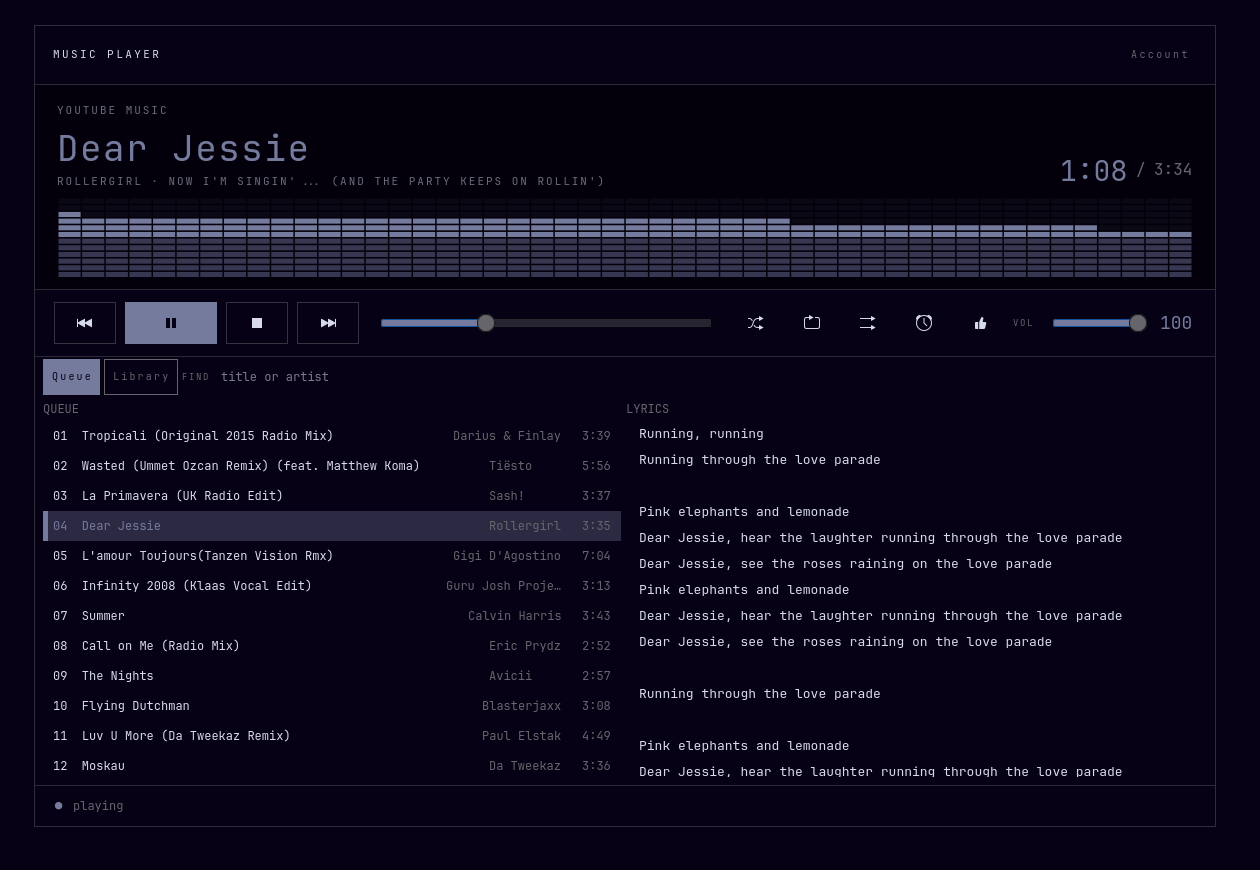
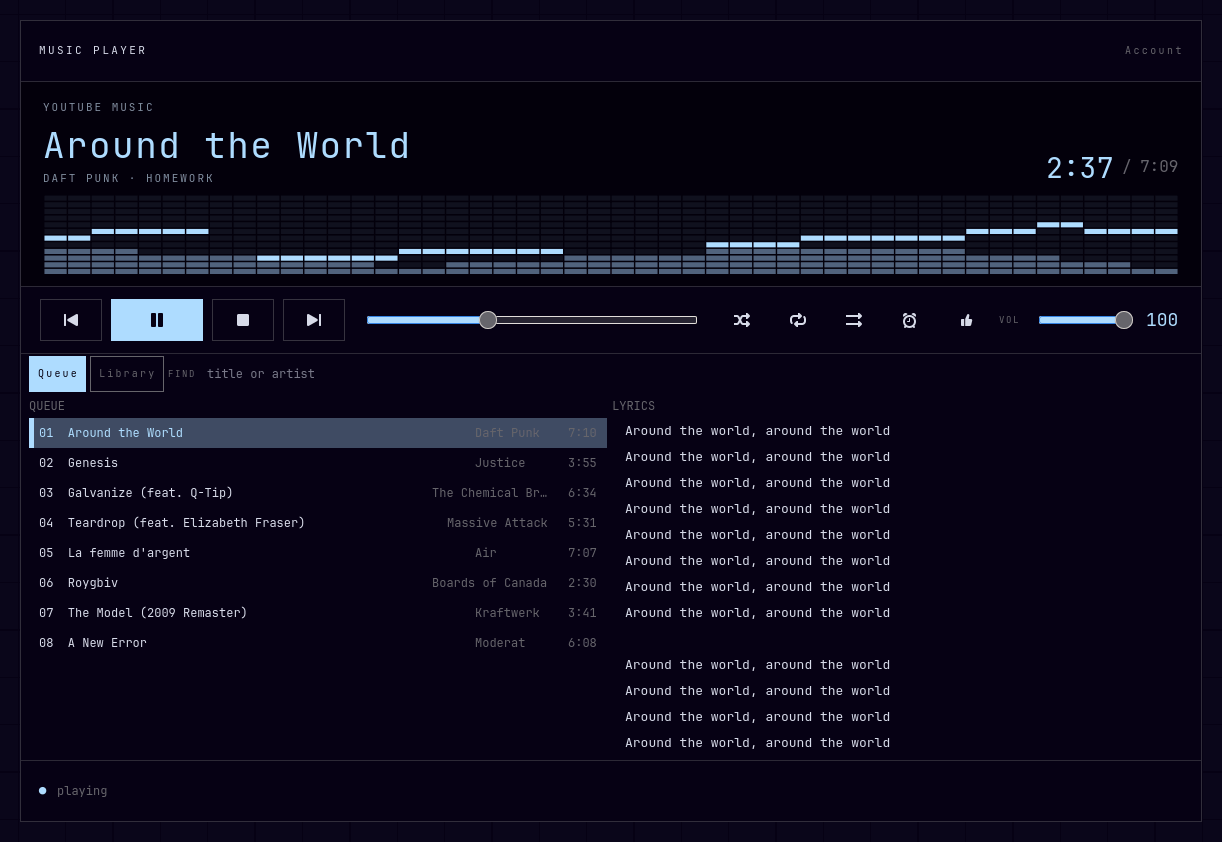
docs: rewrite README and refresh screenshots

diff --git a/README.md b/README.md
@@ -1,49 +1,51 @@
 # Music
 
-A compact YouTube Music player for Arch: GTK4 window, Innertube engine, mpv for audio.
+A standalone YouTube Music player for Arch, CachyOS and Omarchy. GTK4 front end, a small Node engine that talks to YouTube Music's Innertube API through [youtubei.js](https://github.com/LuanRT/YouTube.js), and mpv for playback.
 
-**Version 0.2.0.** Unofficial. It uses a YouTube Music session from a browser on this computer. Not affiliated with Google or YouTube.
+Version 0.2.0. Unofficial, and not affiliated with Google or YouTube. It uses the YouTube Music session of a browser already signed in on this computer.
 
-Works on **Omarchy** and other Arch-family systems including **CachyOS**. The bar widget and Hyprland float rules are optional Omarchy extras.
-
-## Screenshots
+![The deck with the bricks visualizer](docs/screenshots/deck-bricks.png)
 
 ![Queue](docs/screenshots/queue.png)
 
-![Music](docs/screenshots/music.png)
+<details>
+<summary>More screenshots: wave, waterfall, half-screen</summary>
+
+![Wave](docs/screenshots/deck-wave.png)
+
+![Waterfall](docs/screenshots/deck-waterfall.png)
+
+![Half-screen tile](docs/screenshots/half-screen.png)
+
+</details>
 
 ## Features
 
-- Plays YouTube Music from a signed-in browser on this computer (Zen, Firefox, Chrome, Brave, and others that are actually installed)
-- Queue, lyrics, search, and your playlists
-- Like the current track (syncs with Liked Music)
-- Right-click a playlist to rename, delete, or start a mix
-- Shuffle, repeat, play similar, and a sleep timer
-- Full-monitor deck on a music-reactive field: LCD readout plus three vis looks (bricks, wave, waterfall). Click the vis to cycle; the surround matches
-- Close or Super+W hides the window and audio keeps playing; Ctrl+Q quits
-- Follows the current Omarchy theme when those files exist
-- Optional Omarchy bar chip and Hyprland rules
+- **Your library.** Search songs, browse your playlists, and like the current track (it shows up in Liked Music). Premium audio quality is used when the browser session has Premium.
+- **Queue.** Drag to reorder, Delete to remove a row, and save one track or the whole queue to a new or existing playlist. Right-click a track to play it next, add it to the queue or start a mix. Right-click a playlist to start a mix, rename it or delete it.
+- **Playback.** Gapless: the next stream is already queued in mpv when a track ends. Shuffle, repeat (all or one), play similar when the queue runs out, and a sleep timer.
+- **Visualizer.** Three looks: bricks, wave and waterfall. Click the visualizer to cycle through them. It fills the LCD strip and the area around the deck, is capped at 60 fps, and its intensity follows the player volume.
+- **Omarchy theme.** Colours come from the current Omarchy theme and repaint live when you switch themes. Accent and peak colours can be overridden in the config.
+- **Fits any tile.** The deck keeps its full size on a large screen and shrinks to fit a half-screen or short tile.
+- **Desktop integration.** MPRIS, so media keys and other players' controls work. An optional Omarchy bar widget shows the current track and opens the window.
+- **Light on resources.** The engine pushes status changes to the window instead of being polled, so an idle player costs almost no CPU.
+- **Scriptable.** A local socket, an optional loopback HTTP endpoint and an MCP server expose the same commands. See [docs/agents.md](docs/agents.md).
 
-## Needs
+The window is a client: closing it leaves the engine and the music running. **Ctrl+Q** quits the engine and mpv.
 
-- Node 22+ (`nodejs`, `npm`)
+## Requirements
+
+- Node.js 22 or newer, and npm
 - mpv
-- GTK4 / PyGObject (`python-gobject`, `gtk4`)
-- `sqlite` (Firefox / Zen cookies) and `yt-dlp` (Chromium, Chrome, Brave, Edge, Vivaldi)
-- A browser on this machine signed into [YouTube Music](https://music.youtube.com)
+- GTK4 and PyGObject (`gtk4`, `python-gobject`), run with the system `/usr/bin/python3`
+- `sqlite` for Firefox, Zen and LibreWolf cookies; `yt-dlp` for Chrome, Chromium, Brave, Edge, Vivaldi and Helium
+- A browser on this computer signed in to [YouTube Music](https://music.youtube.com)
 
-Premium quality is used when that browser session has it.
+## Install
 
-## Install (Arch / CachyOS)
+### Arch package
 
-From the AUR, once the package is uploaded:
-
-```bash
-paru -S music-player-git
-# or: yay -S music-player-git
-```
-
-Until then, build the same PKGBUILD from this repo:
+Build the PKGBUILD from a checkout:
 
 ```bash
 git clone https://github.com/stinsvarning/music-player.git
@@ -51,20 +53,9 @@ cd music-player/packaging/aur
 makepkg -si
 ```
 
-Or a user-local install without pacman:
+The package installs to `/usr`. The Omarchy bar widget and Hyprland snippet are placed in `/usr/share/music-player/` for you to copy if you want them.
 
-```bash
-git clone https://github.com/stinsvarning/music-player.git
-cd music-player
-sudo pacman -S --needed python-gobject gtk4 mpv nodejs npm sqlite yt-dlp
-./packaging/install.sh --no-extras --prefix ~/.local
-```
-
-The script puts `music-player` on `PATH` (`~/.local/bin`) and a desktop entry named **Music**. Add `~/.local/bin` to `PATH` if your shell does not already. The AUR package installs to `/usr` instead.
-
-## Install (Omarchy)
-
-Same steps, but keep the extras:
+### User-local install
 
 ```bash
 git clone https://github.com/stinsvarning/music-player.git
@@ -73,71 +64,120 @@ sudo pacman -S --needed python-gobject gtk4 mpv nodejs npm sqlite yt-dlp
 ./packaging/install.sh --prefix ~/.local
 ```
 
-If `~/.config/omarchy` exists, install copies the Music bar widget to `~/.config/omarchy/plugins/llurd.music/`. Enable it in the bar if it is not listed.
+This installs `music-player` to `~/.local/bin` and a desktop entry called **Music**. Make sure `~/.local/bin` is on your `PATH`.
 
-If `~/.config/hypr` exists, it writes `~/.config/hypr/music-player.lua`. Open fills the monitor; **Super+T** toggles a compact 1180×880 float. **Super+Shift+M** can raise or launch the player the same way the bar chip does — copy the two lines from `packaging/hypr-bindings.lua` into `~/.config/hypr/bindings.lua`. That key is Omarchy’s default Music shortcut (normally Spotify).
+On Omarchy the script also installs two extras, unless you pass `--no-extras`:
 
-Missing Omarchy files does not prevent launch. The window follows the current Omarchy theme when present.
+- the **Music** bar widget, to `~/.config/omarchy/plugins/llurd.music/` (enable it in the bar if it does not appear)
+- a Hyprland window rule, to `~/.config/hypr/music-player.lua` (require it from your `hyprland.lua`)
+
+To open or focus the player with **Super+Shift+M** (Omarchy's default music key), copy the two lines from `packaging/hypr-bindings.lua` into `~/.config/hypr/bindings.lua`.
+
+### Run from a checkout
+
+```bash
+cd engine && npm ci && cd ..
+./music-player
+```
 
 ## First run
 
-If you are not signed in, the window shows a card with every browser that has a profile on this computer. **Sign in with** that browser; YouTube Music opens there and the app reads that session. **Check again** re-scans.
+If no signed-in session is found, the window lists the browsers that have a profile on this computer. Click **Sign in with …** for the one you use; YouTube Music opens in that browser and the player picks up the session. **Check again** re-scans.
 
-**Account → Sign out** forgets the saved session and stays signed out until you sign in again. The queue on disk is kept.
+**Account → Sign out** forgets the saved session until you sign in again. Your queue is kept.
 
-Optional override:
+## Keys
+
+Press **?** in the window for this list.
+
+| Key | Action |
+|---|---|
+| `Space` | Play / pause |
+| `n` / `p` | Next / previous |
+| `s` | Stop |
+| `←` / `→` | Seek 5 seconds |
+| `↑` / `↓` | Volume ±5 |
+| `l` | Like or unlike |
+| `q` / `m` | Queue / Library view |
+| `/` or `Ctrl+F` | Search |
+| `Delete` | Remove the selected queue row |
+| `Menu` or `Shift+F10` | Context menu |
+| `F11` | Fullscreen |
+| `Esc` | Leave the search field |
+| `Ctrl+Q` | Quit the player and the engine |
+
+## Configuration
+
+Everything is optional. The file is `~/.config/music-player/config.toml`:
 
 ```toml
-# ~/.config/music-player/config.toml
+# Which browser session to use. "auto" picks the first signed-in browser it finds.
 cookies_from = "auto"
 # cookies_from = "firefox:~/.config/zen"
-# vis_mode = "bricks"  # bricks | wave | waterfall (old "orbit" maps to waterfall)
+
+# Visualizer look: bricks, wave or waterfall. Clicking the visualizer updates this,
+# and a hand edit is picked up without a restart.
+vis_mode = "bricks"
+
+# Override the theme's accent and peak colours.
+# accent = "#7aa2f7"
+# peak = "#f7768e"
 ```
 
-## Window vs engine
+## Engine as a systemd user service
 
-| Action | What happens |
-|---|---|
-| Close the window / Super+W / Super+X | Hides the window. **Audio keeps playing.** |
-| Ctrl+Q | Quits the engine and mpv. |
-| Open Music again | Attaches to the running engine if it is still up. |
-
-### Engine as a systemd user service (optional)
-
-The engine can run as a user service, so it starts with your desktop session and the
-bar widget and media keys work before the window is ever opened:
+By default the window starts the engine when it opens. Run the engine as a user service instead, and it comes up with your graphical session, so media keys and the bar widget work before the window is ever opened:
 
 ```bash
-./packaging/install-service.sh --enable --now           # engine installed by install.sh (~/.local)
-./packaging/install-service.sh --repo --enable --now    # or the engine in this checkout
+./packaging/install-service.sh --enable --now          # the engine installed by install.sh
+./packaging/install-service.sh --repo --enable --now   # the engine in this checkout
 ```
 
-- With the unit installed, opening Music runs `systemctl --user start music-player-engine.service`
-  and attaches to it. If that fails, the window spawns the engine itself, as without the service.
-- Ctrl+Q still quits the engine; the service stays stopped (it only restarts after a crash) until
-  the next login or the next time you open Music.
-- If an engine is already running when the service starts, the service exits quietly and the
-  running engine keeps playing.
+- With the unit installed, opening Music starts the service if needed and attaches to it. If that fails, the window falls back to starting the engine itself.
+- **Ctrl+Q** still stops the engine. The service only restarts after a crash, so it stays stopped until your next login or the next time you open Music.
+- The unit records the absolute path of `node` (version-manager shims such as mise are resolved). **Rerun the script after upgrading Node.**
 - `MUSIC_PLAYER_NO_SYSTEMD=1 music-player` skips the service for one launch.
 - Logs: `journalctl --user -u music-player-engine`. Remove it with `./packaging/install-service.sh --remove`.
 
+## How it works
+
+```
+GTK4 window (ui/music_player) ──┐
+Omarchy bar widget ─────────────┼── Unix socket ──> engine (engine/src, Node) ──> mpv
+music-player-ctl / HTTP / MCP ──┘                     │
+                                                      ├── YouTube Music (Innertube, youtubei.js)
+                                                      └── MPRIS on D-Bus
+```
+
+- **Engine** (`engine/src`). Owns the session, queue and playback. It resolves streams through Innertube, drives one long-lived mpv over JSON IPC, keeps the next track queued for gapless playback, and saves the queue and volume between runs. Only one engine runs at a time, listening on `~/.config/music-player/engine.sock`.
+- **Visualizer data.** An mpv audio filter splits the signal into ten bands and reports their levels. The window reads them every 80 ms while playing and draws at most 60 frames per second.
+- **Window** (`ui/music_player`). A GTK4 client that subscribes to the engine's status stream and only falls back to slow polling when it has to. It watches the Omarchy theme files and `config.toml` and repaints on change.
+- **Packaging** (`packaging/`). `install.sh`, `uninstall.sh`, `install-service.sh` with the systemd unit template, the Arch PKGBUILD, the Omarchy bar widget and the Hyprland snippets.
+
+## Development
+
+```bash
+(cd engine && npm ci)    # once
+cd engine && node --test
+cd ui && /usr/bin/python3 -m unittest discover -s tests
+```
+
+Run the last two from the repository root.
+
+The UI tests need the system PyGObject, hence `/usr/bin/python3`. Tests that start mpv run it with `--ao=null`, so they never make a sound.
+
+For a silent, headless engine (on its own socket, for example), set `MUSIC_PLAYER_MPV_ARGS="--ao=null"` and `MUSIC_PLAYER_NO_MPRIS=1`.
+
 ## Uninstall
 
-Quit the player first (**Ctrl+Q**).
+Quit the player first with **Ctrl+Q**.
 
 ```bash
 ./packaging/uninstall.sh --prefix ~/.local
 ```
 
-That removes the binary, library tree, desktop entry, and the engine user service if installed. Session and cookies stay.
-
-```bash
-./packaging/uninstall.sh --purge-extras    # also drop the bar plugin and Hyprland snippet
-./packaging/uninstall.sh --purge-config    # also delete ~/.config/music-player
-```
+This removes the launcher, the installed files, the desktop entry and the engine user service. Your session and config stay. Add `--purge-extras` to also remove the bar widget and Hyprland snippet, and `--purge-config` to delete `~/.config/music-player`.
 
 ## License
 
 MIT. See [LICENSE](LICENSE).
-
-Agent, HTTP, and MCP control are documented in [docs/agents.md](docs/agents.md).
